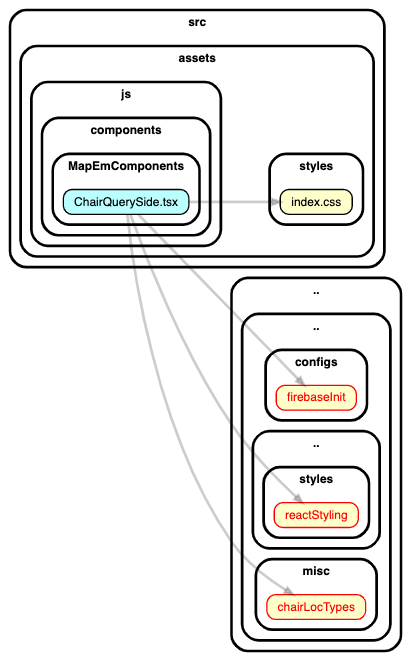
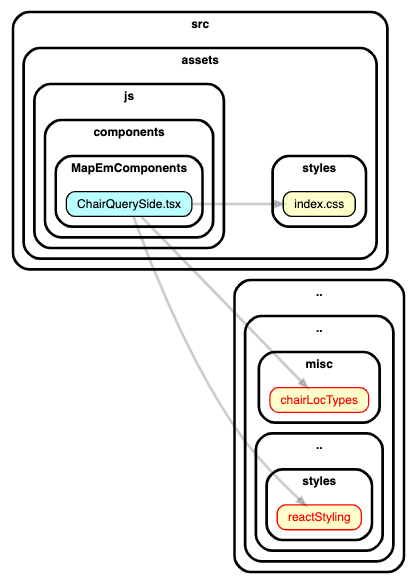
r

diff --git a/src/assets/js/components/MapEmComponents/ChairQuerySide.tsx b/src/assets/js/components/MapEmComponents/ChairQuerySide.tsx
@@ -14,7 +14,6 @@ import firebase from "firebase/app";
 import "firebase/database";
 import "firebase/firestore";
 import "firebase/auth";
-// import "../../configs/firebaseInit";
 
 import { divFlexCol } from "../../../styles/reactStyling";
 import { divFlexRowLazyMan } from "../../../styles/reactStyling";
@@ -61,9 +60,6 @@ class ChairQuerySide extends Component<
       this.getChairQueryContent = this.getChairQueryContent.bind(this);
       this.chairCollection = "";
       this.enterButtonClicked = this.enterButtonClicked.bind(this);
-      // this.clearConsoleButtonClicked = this.clearConsoleButtonClicked.bind(
-      //    this
-      // );
 
       this.thisWeekClicked = this.thisWeekClicked.bind(this);
       this.sinceLastWeekClicked = this.sinceLastWeekClicked.bind(this);
